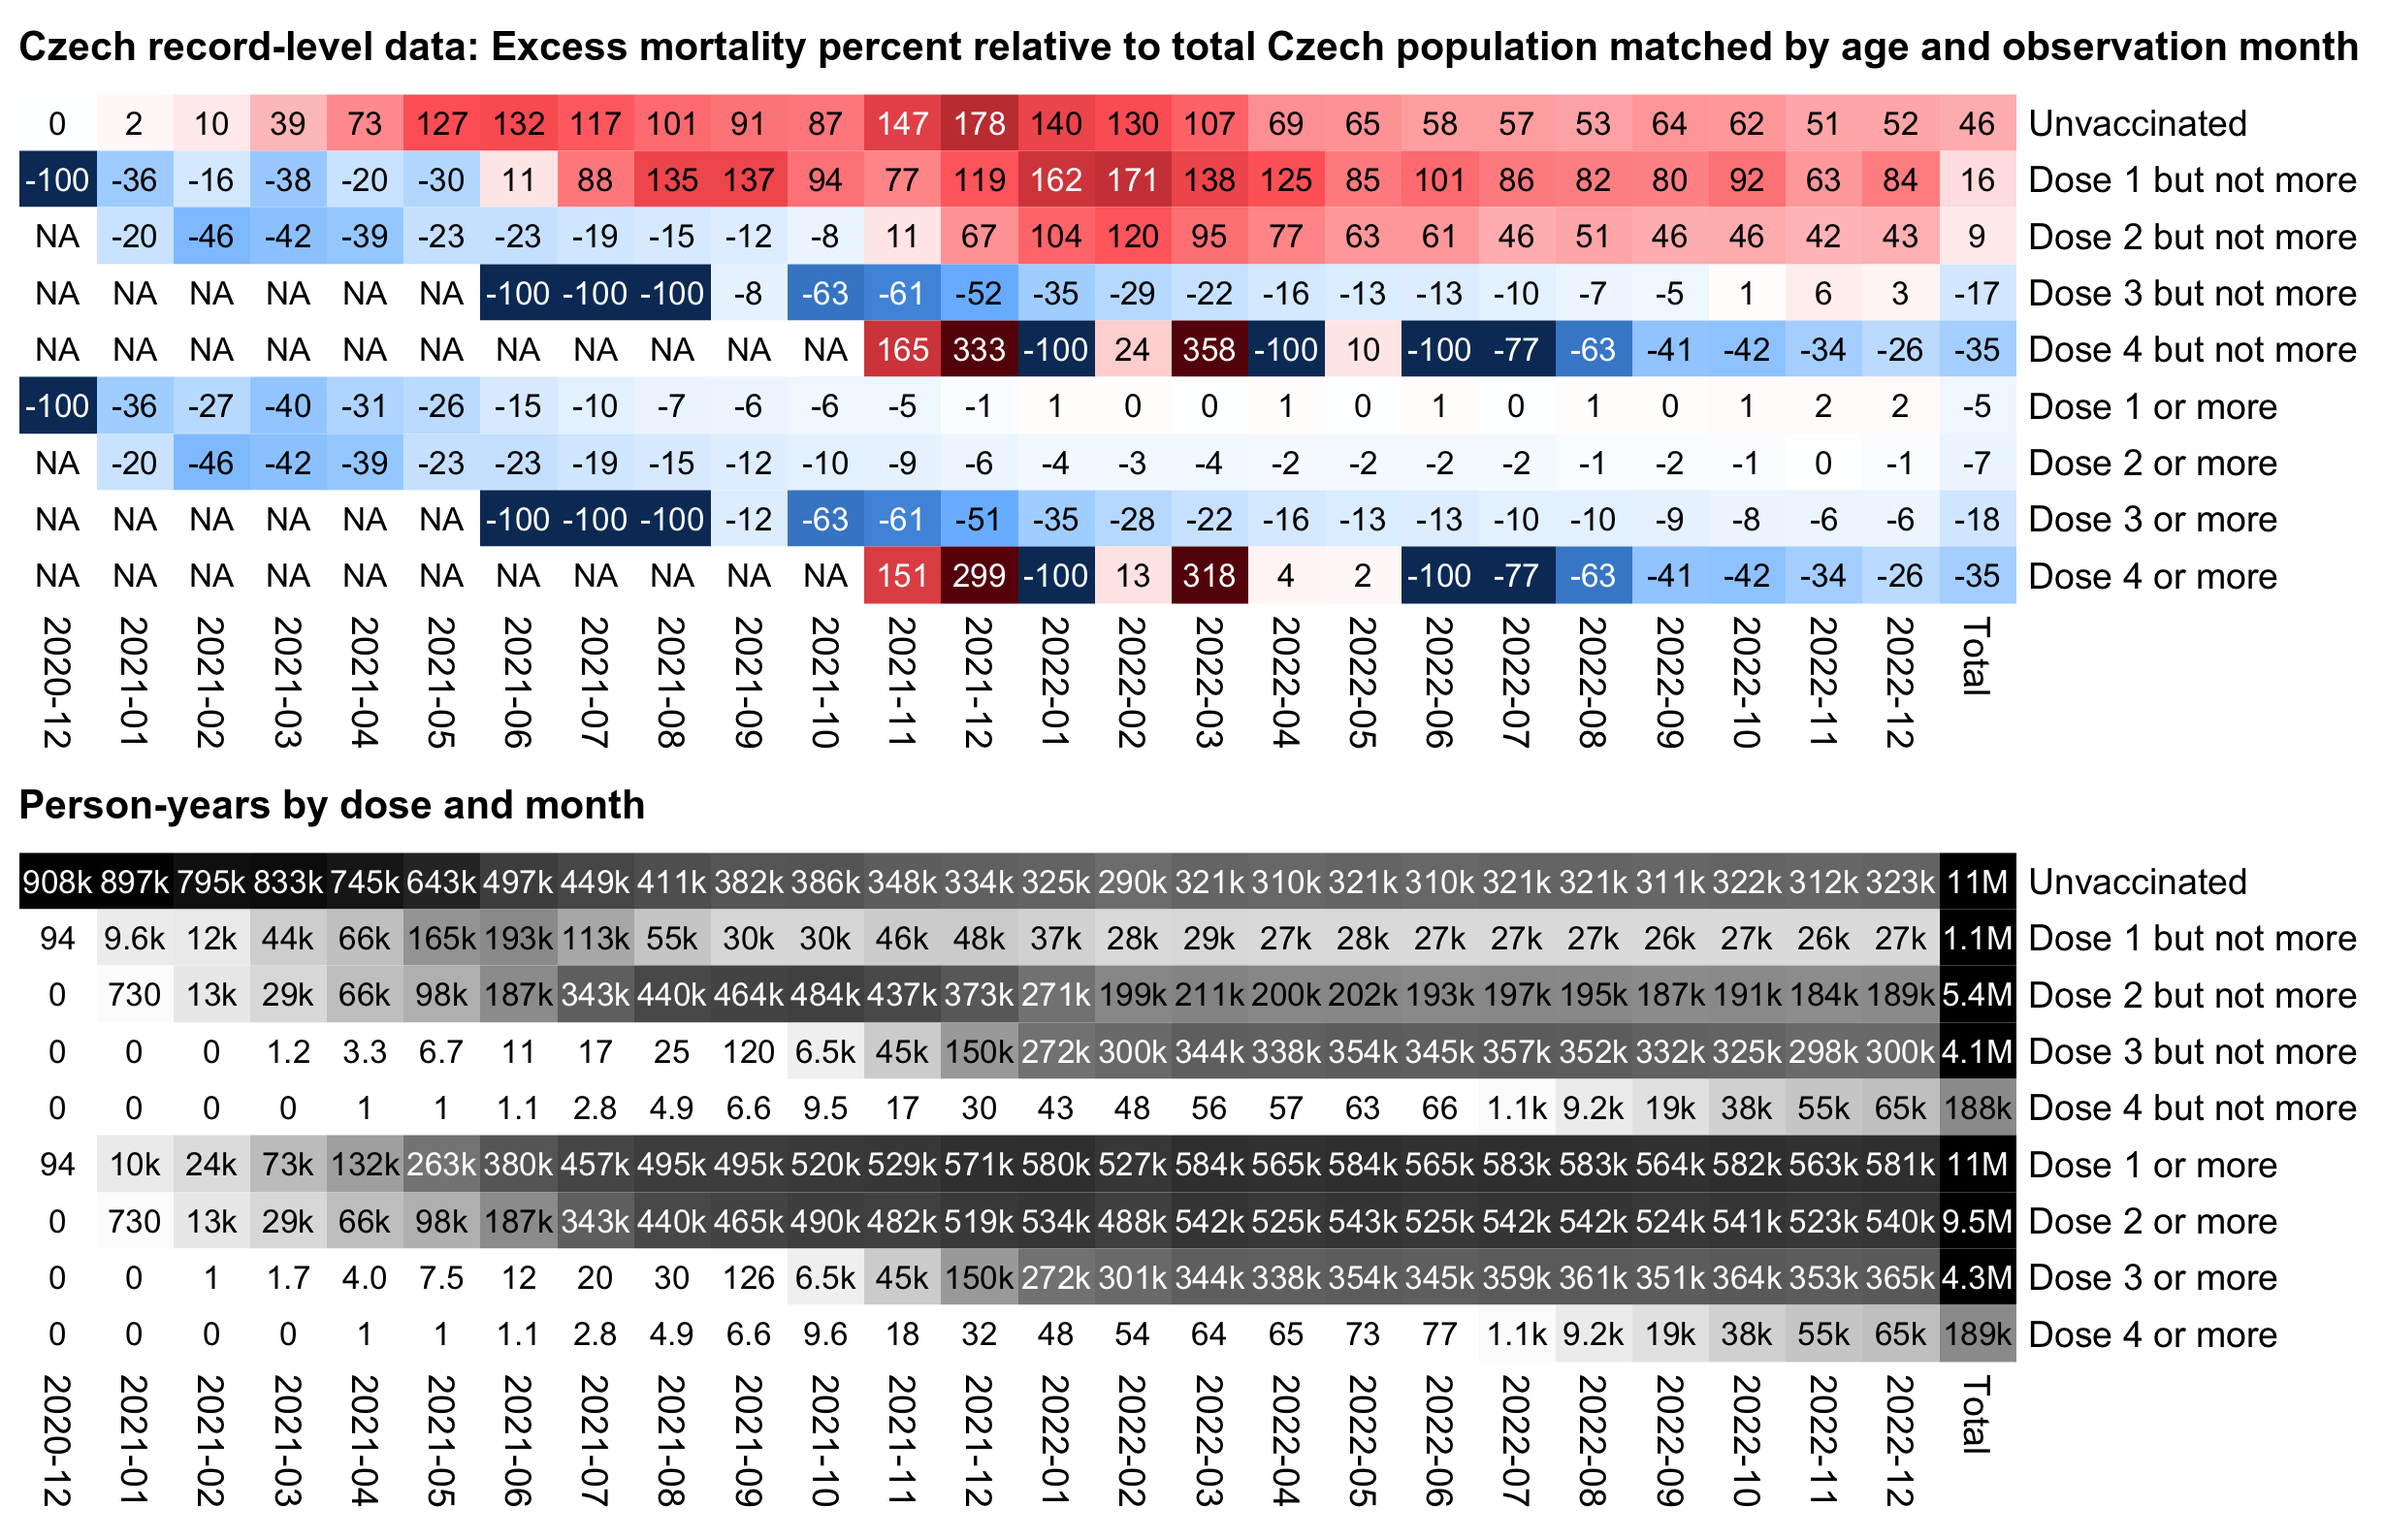
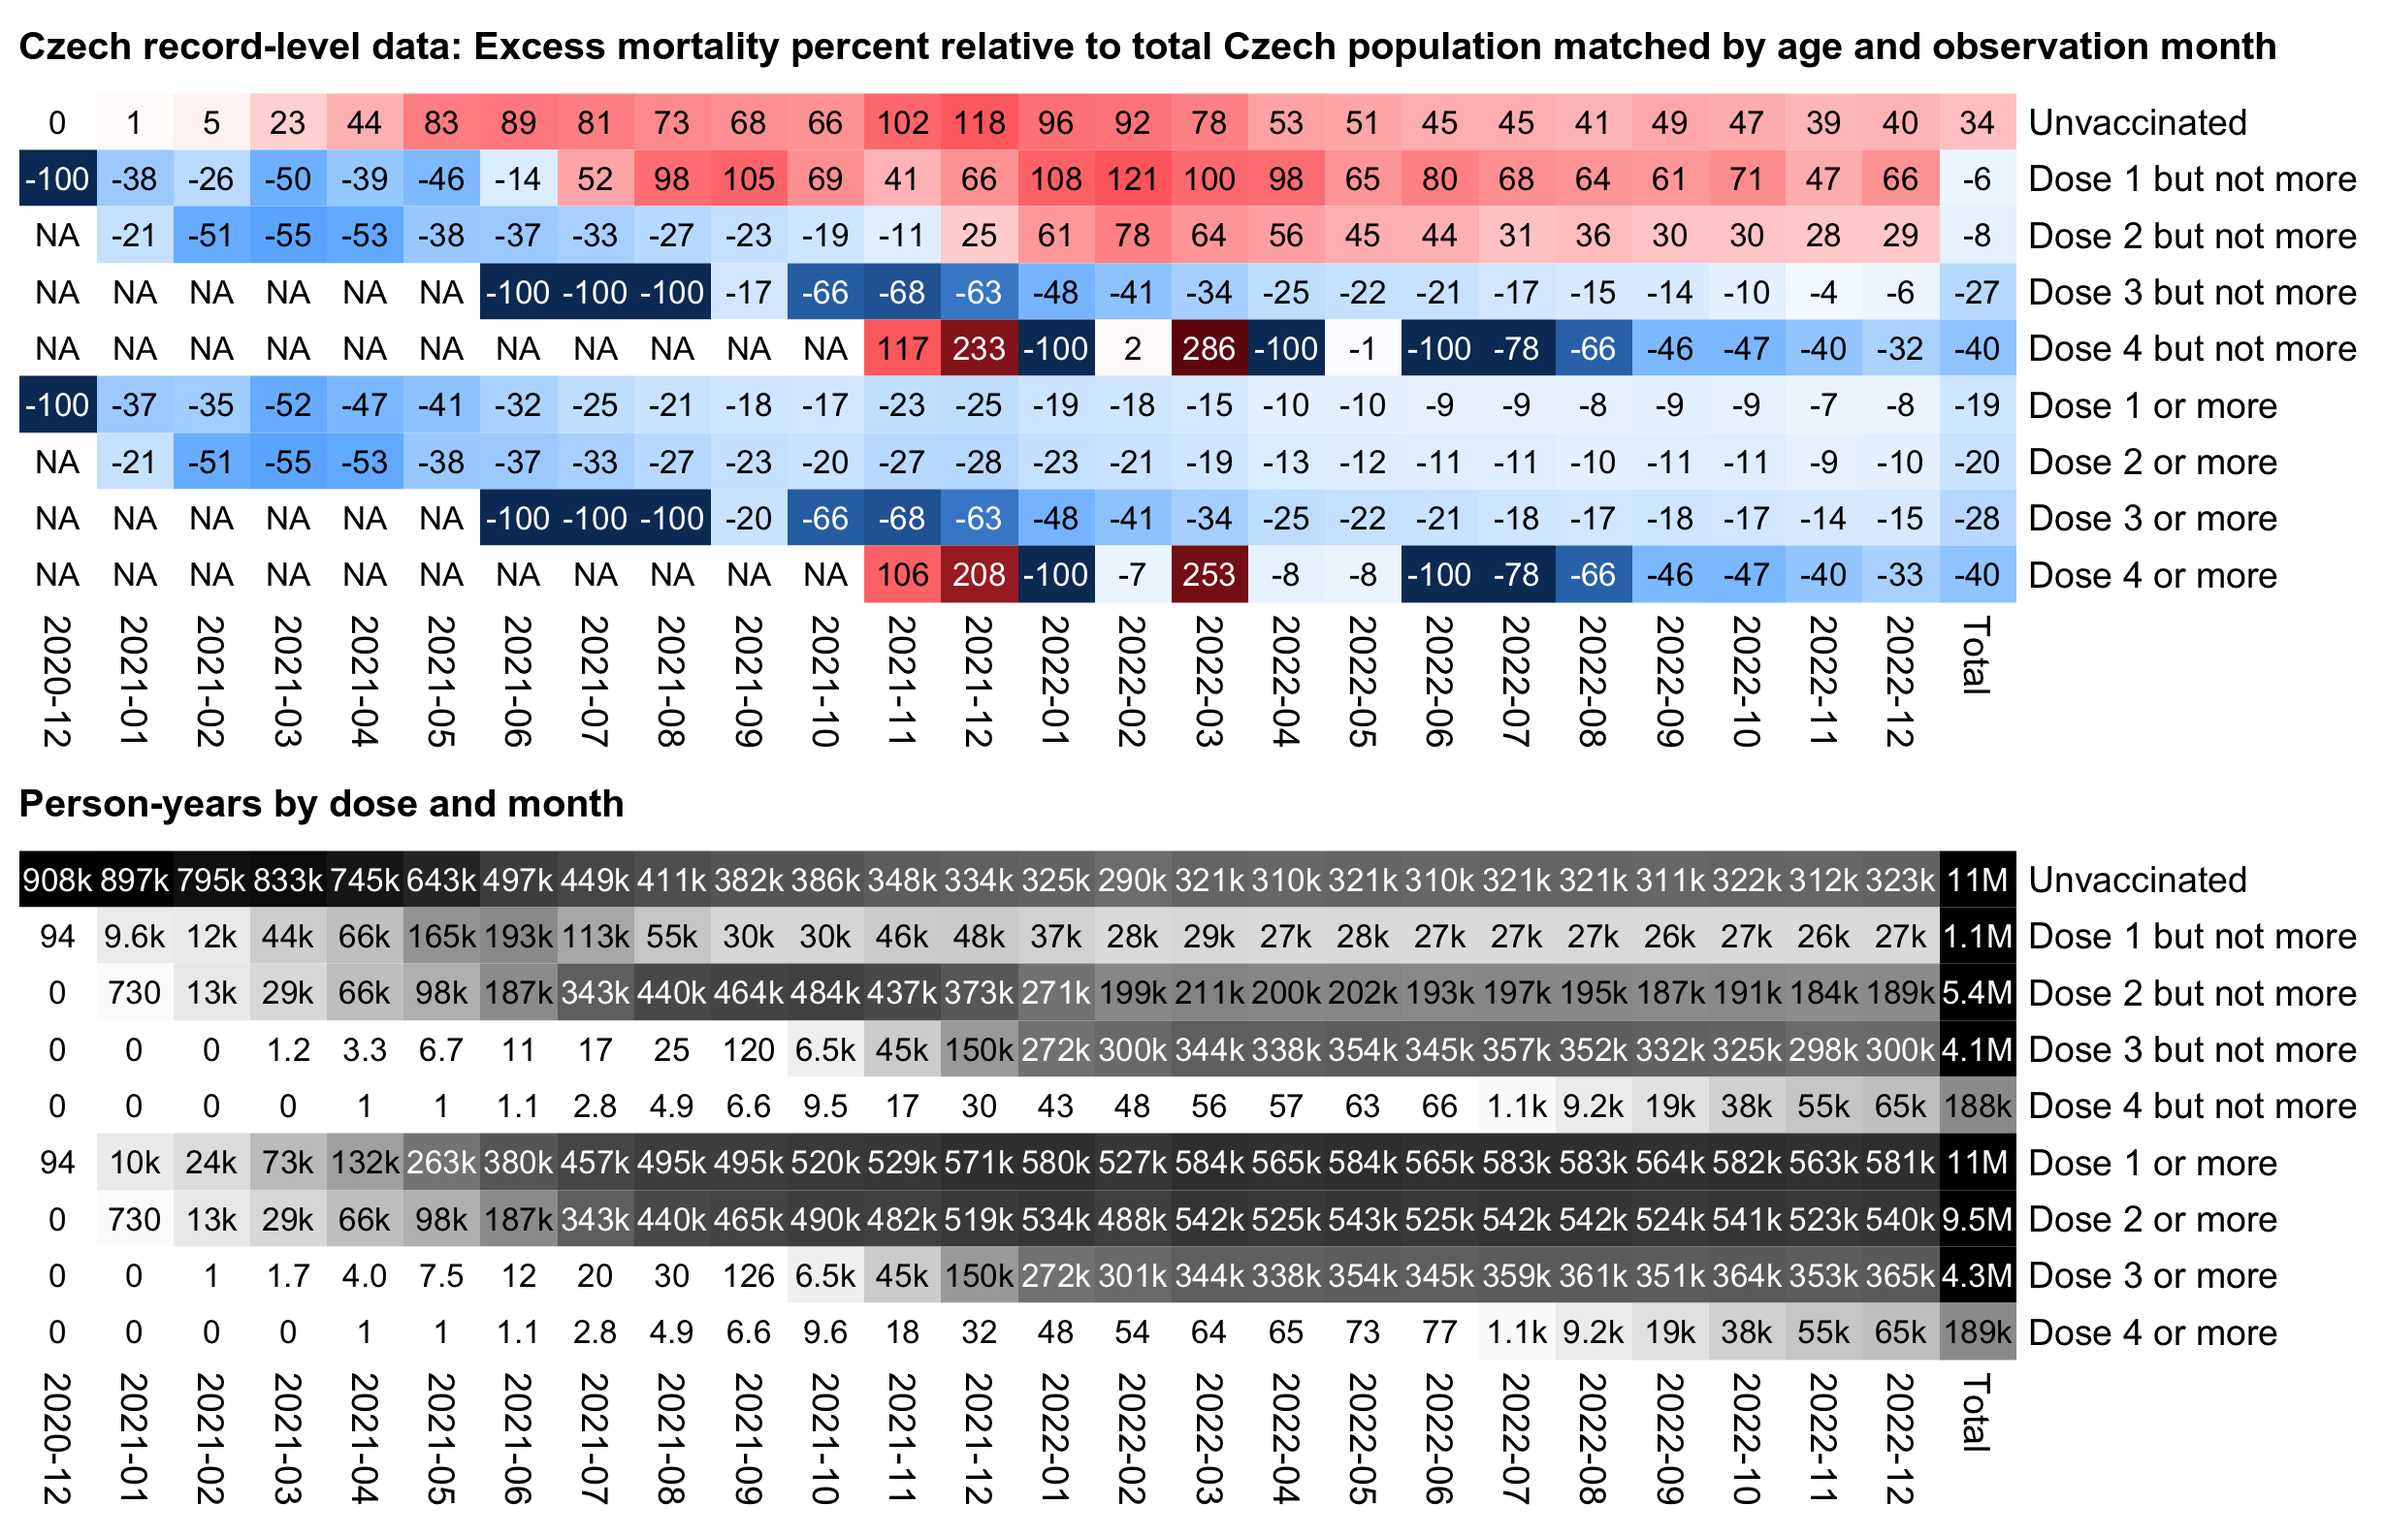
a

diff --git a/czech.html b/czech.html
@@ -526,6 +526,10 @@ system(&quot;magick 0.png -resize 25% 1.png&quot;)</pre>
 <img src="i/czech-composition-2.png">
 </div>
 <p>In the plot above unvaccinated people have 174% excess mortality in December 2021 but 43% in September 2021, so it's an approximately 1.92-fold increase in mortality (from <code>(173.53+100)/(42.68+100)</code>). But vaccinated people only have an approximately 1.54-fold increase in mortality when December 2021 is compared to September 2021 (from <code>(5.46+100)/(-31.64+100)</code>). In the US Medicare data that Kirsch published in 2023, the spikes in deaths during COVID waves were also bigger in unvaccinated people than vaccinated people.</p>
+<div class="spoiler">
+<button>
+Show code
+</button>
 <pre>library(data.table)
 
 b=fread(&quot;http://sars2.net/f/czbuckets.csv.gz&quot;)[dose&lt;=4]
@@ -533,8 +537,8 @@ b[,dose:=ifelse(dose==0,&quot;Unvaccinated&quot;,paste(&quot;Dose&quot;,dose,&qu
 b2=fread(&quot;http://sars2.net/f/czbucketskeep.csv.gz&quot;)[dose%in%1:4][,dose:=paste0(&quot;Dose &quot;,dose,&quot; or more&quot;)]
 b=rbind(b,b2)[month&gt;=&quot;2020-12&quot;]
 
-me=merge(b,b[,.(base=sum(dead)/sum(alive)),.(age,month)])
-# me=merge(b,b[,.(base=sum(dead)/sum(alive)),age]) # use 2021-2022 total as baseline for each month
+me=merge(b,b[dose%like%&quot;Unvaccinated|1 or more&quot;,.(base=sum(dead)/sum(alive)),.(age,month)])
+# me=merge(b,b[dose%like%&quot;Unvaccinated|1 or more&quot;,.(base=sum(dead)/sum(alive)),age]) # use 2021-2022 total as baseline for each month
 
 a=me[,base:=base*alive][,.(alive=sum(alive),dead=sum(dead),base=sum(base)),.(month,dose)]
 a=rbind(a,a[,.(dead=sum(dead),alive=sum(alive),base=sum(base),month=&quot;Total&quot;),dose])
@@ -568,7 +572,8 @@ pheatmap::pheatmap(mpop,filename=&quot;i2.png&quot;,display_numbers=disp2,
   breaks=seq(0,maxcolor2,,256),
   sapply(seq(1,0,,256),\(i)rgb(i,i,i)))
 
-system(&quot;w=`identify -format %w i1.png`;pad=38;convert -gravity northwest -pointsize 41 -font Arial-Bold \\( -splice x24 -size $[w-pad]x caption:&#39;Czech record-level data: Excess mortality percent relative to total Czech population matched by age and observation month&#39; -extent $[w-pad]x -gravity center \\) i1.png -gravity northwest \\( -size $[w-40]x caption:&#39;Person-years by dose and month&#39; -extent $[w-pad]x -gravity center \\) i2.png -append 1.png&quot;)</pre>
+system(&quot;w=`identify -format %w i1.png`;pad=38;convert -gravity northwest -pointsize 40 -font Arial-Bold \\( -splice x24 -size $[w-pad]x caption:&#39;Czech record-level data: Excess mortality percent relative to total Czech population matched by age and observation month&#39; -extent $[w-pad]x -gravity center \\) i1.png -gravity northwest \\( -size $[w-40]x caption:&#39;Person-years by dose and month&#39; -extent $[w-pad]x -gravity center \\) i2.png -append 1.png&quot;)</pre>
+</div>
 <h2>
 <a href=#Triangle_plot_for_excess_mortality_by_month_of_vaccination_and_month_of_death id=Triangle_plot_for_excess_mortality_by_month_of_vaccination_and_month_of_death>Triangle plot for excess mortality by month of vaccination and month of death</a>
 </h2>
